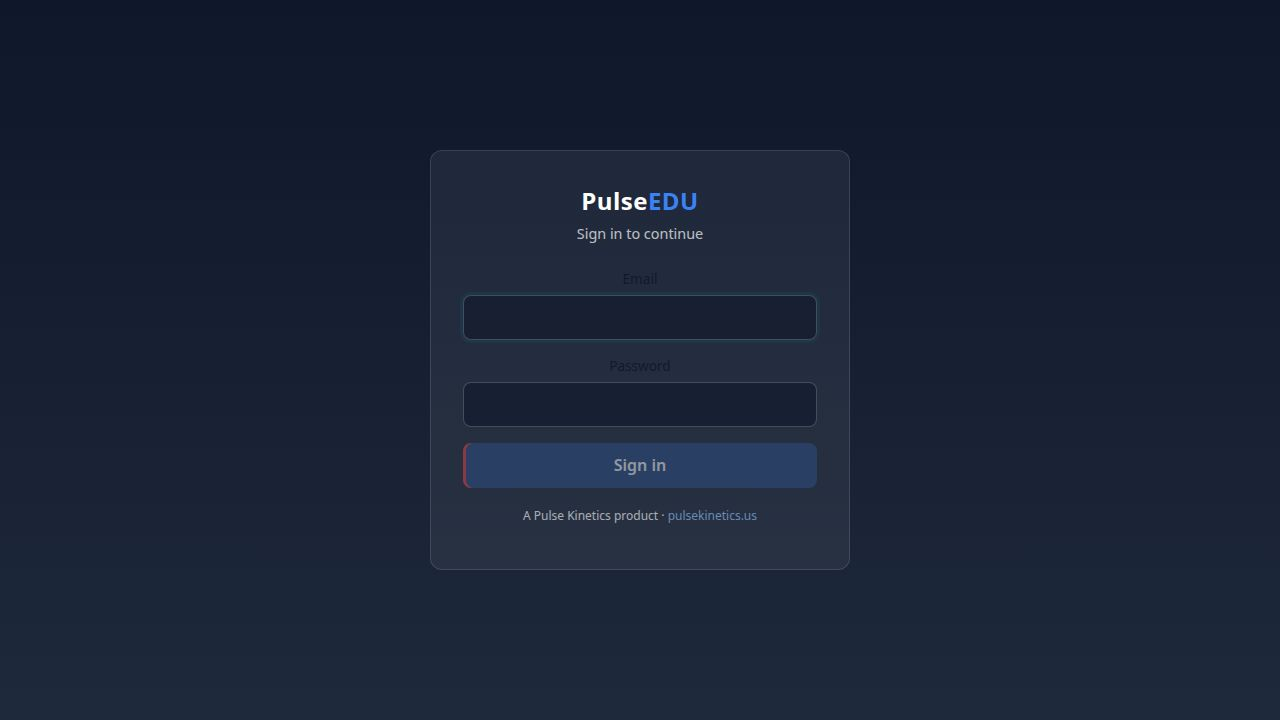
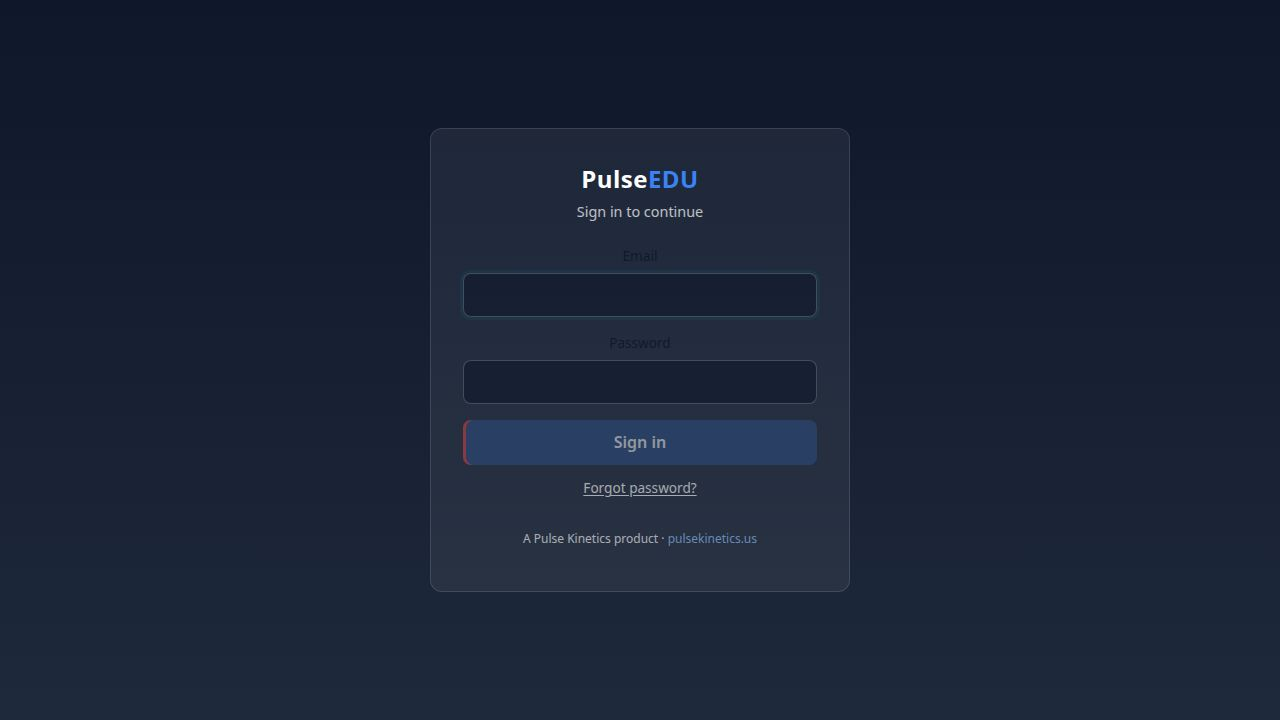
Add background refresh to update active hall pass counts
Implement a 15-second polling interval in App.tsx to continuously fetch hall pass data, ensuring that hall passes created on kiosks are reflected in the staff app's active count and list without manual reloads.

Replit-Commit-Author: Agent
Replit-Commit-Session-Id: 18c6d1a2-d7c3-4909-9e81-47e1f2a4a888
Replit-Commit-Checkpoint-Type: full_checkpoint
Replit-Commit-Event-Id: e3fa9a86-c13e-4ab5-8b6d-2f5ab859f0c5
Replit-Commit-Screenshot-Url: https://storage.googleapis.com/screenshot-production-us-central1/db396107-0810-4b8f-b1e4-13d665f1fe5f/18c6d1a2-d7c3-4909-9e81-47e1f2a4a888/eEilyvz
Replit-Helium-Checkpoint-Created: true

Changed region(s): [[0.3438, 0.5806, 0.6562, 0.7639], [0.4375, 0.2139, 0.5625, 0.3361]]

diff --git a/artifacts/client/src/App.tsx b/artifacts/client/src/App.tsx
@@ -6200,6 +6200,21 @@ function App() {
     // eslint-disable-next-line react-hooks/exhaustive-deps
   }, [authUser?.id]);
 
+  // Poll hall passes so passes created on OTHER devices (especially door
+  // kiosks) show up in the staff app's active list + "Currently Active"
+  // count without a manual reload. Without this, loadHallPasses() only ran
+  // on mount and after the signed-in user's own create/end actions, so a
+  // kiosk-issued pass never moved the count here even though the server had
+  // already stored it as active. 15s matches the pullout-count pollers.
+  useEffect(() => {
+    if (!authUser) return;
+    const interval = setInterval(() => {
+      loadHallPasses();
+    }, 15000);
+    return () => clearInterval(interval);
+    // eslint-disable-next-line react-hooks/exhaustive-deps
+  }, [authUser?.id]);
+
   // ---- Reports tab ----
   const loadReportTeachers = () => {
     authFetch("/api/reports/teachers")

diff --git a/.agents/memory/cross-device-data-freshness.md b/.agents/memory/cross-device-data-freshness.md
@@ -1,0 +1,24 @@
+---
+name: Cross-device data freshness (kiosk vs staff app)
+description: Why staff-app counts/lists must poll, not just refresh on mount + own-action, when other devices (kiosks) mutate the same data.
+---
+
+The staff app and the door kiosks are separate sessions/devices writing the
+same tables (hall passes, queues). A staff-app surface that loads data once on
+mount and only re-fetches after the *signed-in user's own* create/end actions
+will silently miss rows created on another device.
+
+**Symptom seen:** "creating a hall pass from a kiosk does not increment the
+active count, but creating one as a teacher does." Server stored the kiosk pass
+correctly as `status='active'` (and every server count query already included
+it) — the gap was purely client-side staleness.
+
+**Rule:** any staff-app count/list that reflects data mutable by kiosks (or any
+other device) must poll on an interval, not rely on on-mount + own-action
+refresh. The repo convention is a 15s `setInterval` effect gated on
+`authUser?.id` with `clearInterval` cleanup (see the pullout-count pollers and
+the hall-pass poller in `App.tsx`).
+
+**How to apply:** when adding a new staff-facing live count/list for anything a
+kiosk or second surface can create, add a polling effect — don't assume the
+existing load-once pattern is enough.

diff --git a/.agents/memory/MEMORY.md b/.agents/memory/MEMORY.md
@@ -5,5 +5,6 @@
 - [School Grade LG parity](school-grade-lg-parity.md) — learning-gain prior evidence must come from `loadFastHistory` historical PM3 (like Teacher Roster), never `priorYearScore`.
 - [FAST Benchmarks PDF headers](fast-benchmarks-pdf-headers.md) — diagonal code headers: anchor at column LEFT edge + translate/rotate rising up-right; verify by rendering the real PDF, don't eyeball.
 - [Hall pass destination policy](hall-pass-destination-policy.md) — destination-visibility policies (e.g. Restroom Access) must be enforced in POST /hall-passes, not just CreatePassModal; client filtering is bypassable.
+- [Cross-device data freshness](cross-device-data-freshness.md) — staff-app counts/lists for data kiosks can mutate must POLL (15s), not just refresh on mount + own-action, or kiosk rows go unseen.
 - [Pickup bulk-assign concurrency](pickup-bulk-assign-concurrency.md) — school-wide number minter needs DB partial-unique index + per-school advisory lock + 23505→409 mapping, not just app-level dedup.
 - [Pickup release-undo idempotency](pickup-release-undo.md) — undo must be idempotent (double-tap/already-undone → ok); only terminal events block; never dump raw JSON errors.